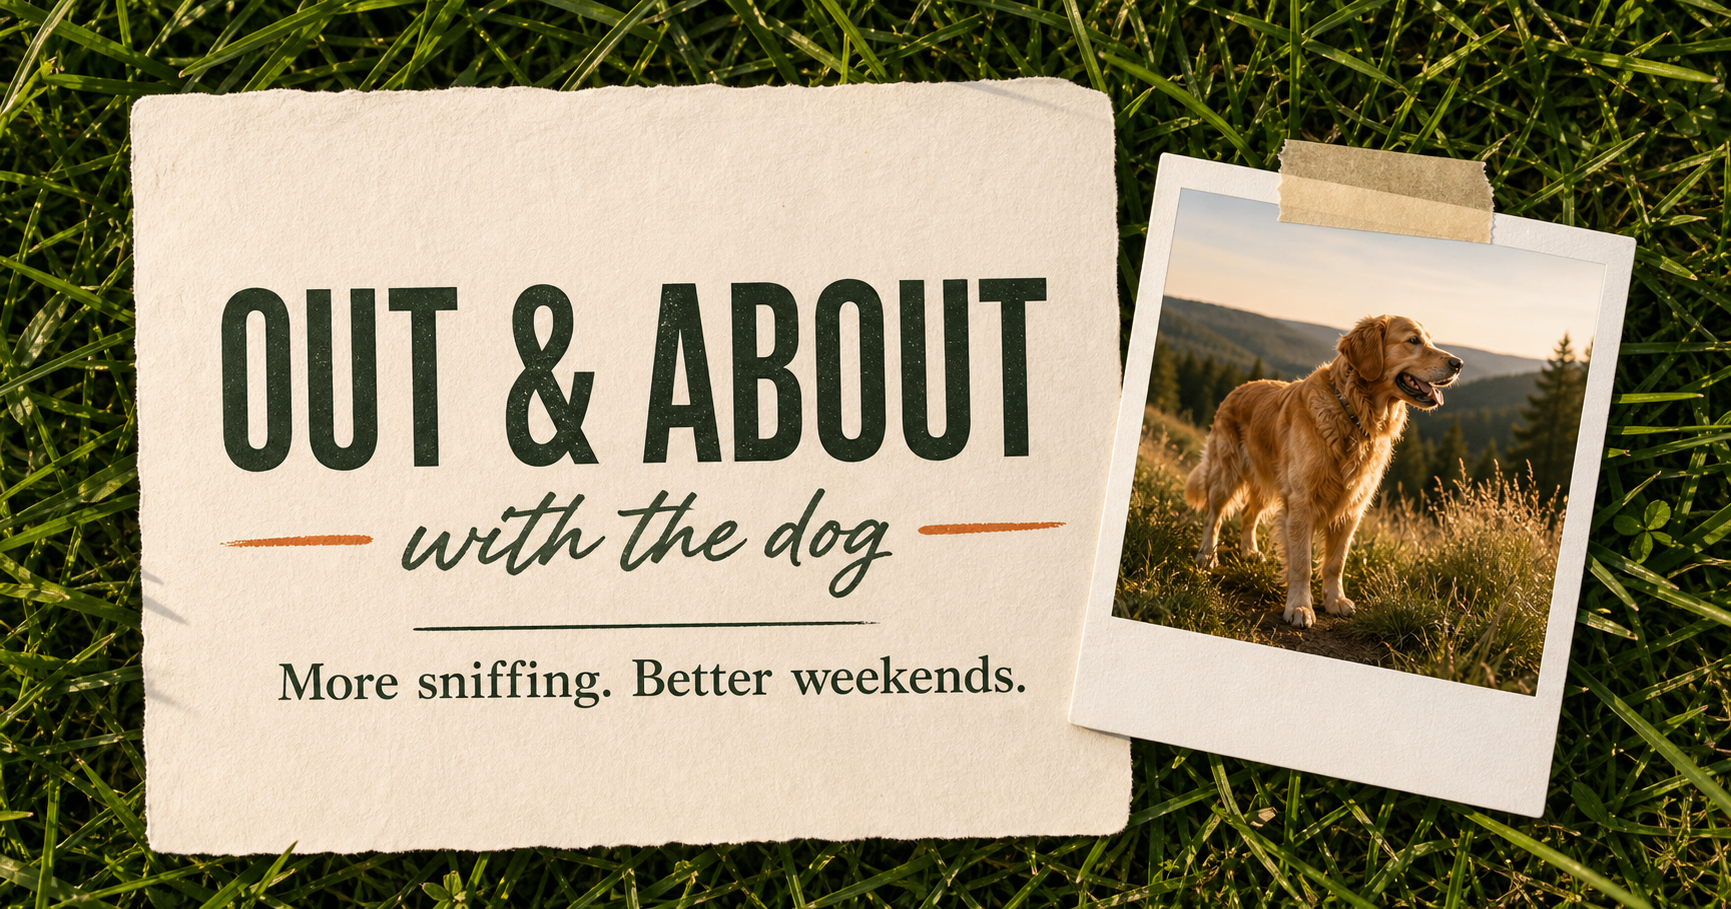
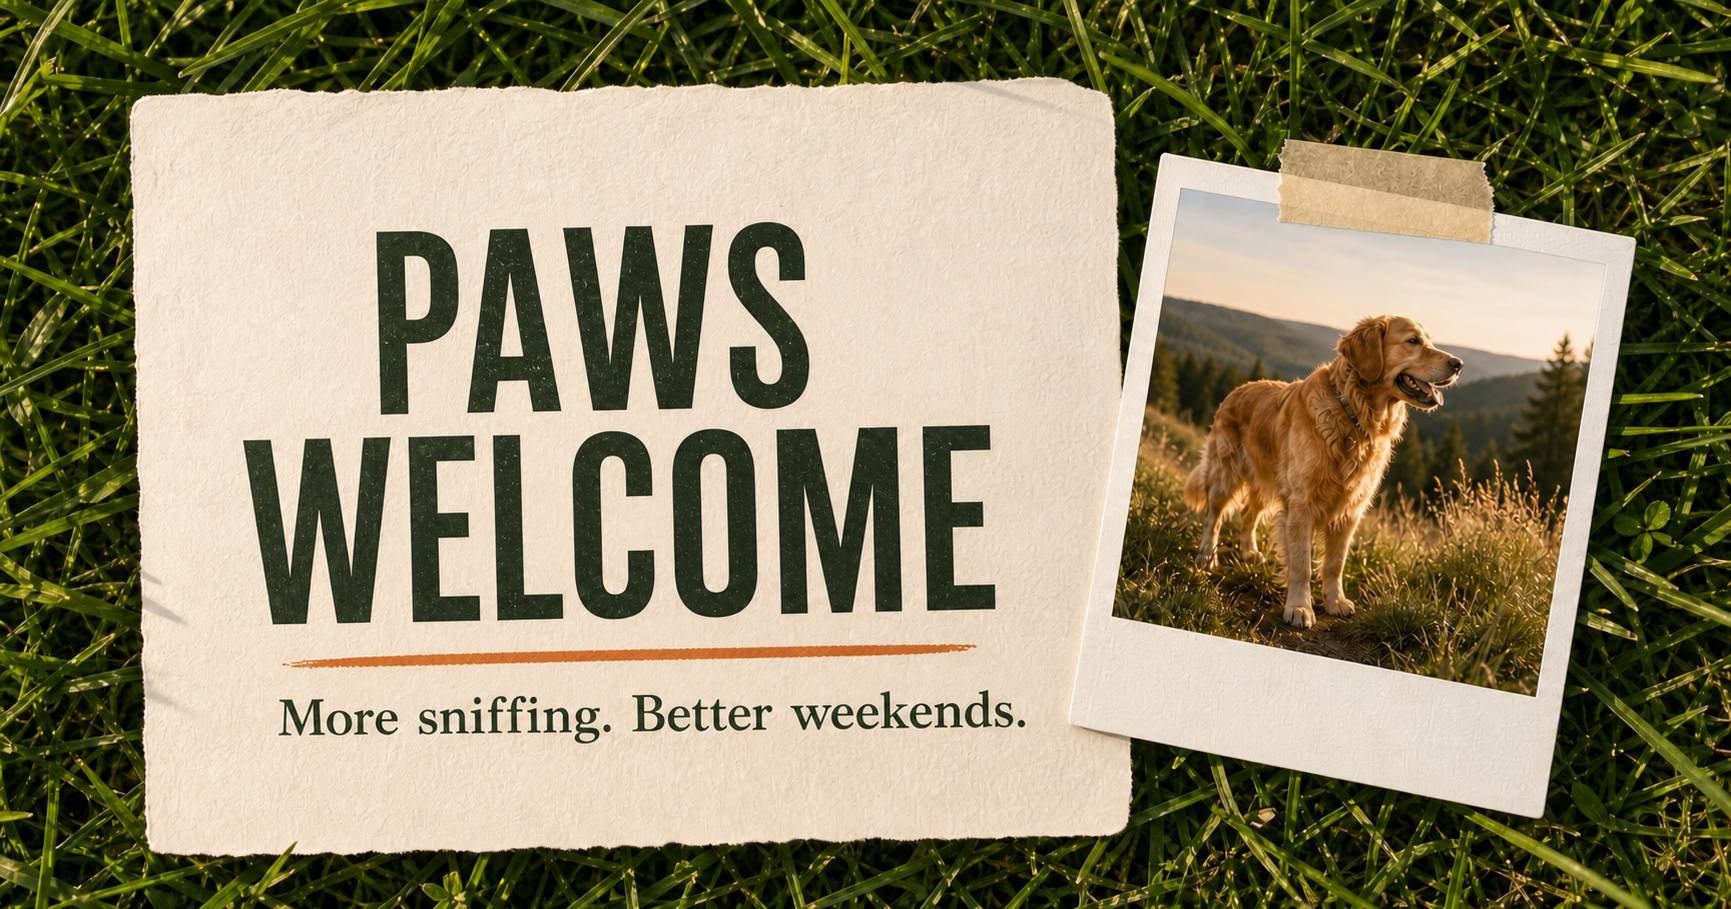
Rebrand site as Paws Welcome

diff --git a/app/layout.tsx b/app/layout.tsx
@@ -8,13 +8,13 @@ const serif = Fraunces({ variable: "--font-serif", subsets: ["latin"] });
 
 export const metadata: Metadata = {
   metadataBase: new URL(process.env.NEXT_PUBLIC_SITE_URL ?? "http://localhost:3000"),
-  title: { default: "Out & About", template: "%s | Out & About" },
+  title: { default: "Paws Welcome", template: "%s | Paws Welcome" },
   description: "Field notes for better days outside with your dog.",
   icons: { icon: "/favicon.svg", shortcut: "/favicon.svg" },
   openGraph: {
-    title: "Out & About — with the dog",
+    title: "Paws Welcome",
     description: "More sniffing. Better weekends.",
-    images: [{ url: "/og.png", width: 1732, height: 909, alt: "Out & About on a paper field note over grass" }],
+    images: [{ url: "/og.png", width: 1732, height: 909, alt: "Paws Welcome on a paper field note over grass" }],
   },
   twitter: { card: "summary_large_image", images: ["/og.png"] },
 };
@@ -24,9 +24,9 @@ export default function RootLayout({ children }: Readonly<{ children: React.Reac
     <html lang="en">
       <body className={`${sans.variable} ${serif.variable}`}>
         <header className="site-header page-shell">
-          <Link className="brand" href="/" aria-label="Out and About home">
-            <span className="brand-mark">O+A</span>
-            <span><strong>Out &amp; About</strong><small>with the dog</small></span>
+          <Link className="brand" href="/" aria-label="Paws Welcome home">
+            <span className="brand-mark">PW</span>
+            <span><strong>Paws Welcome</strong></span>
           </Link>
           <nav aria-label="Main navigation">
             <Link href="/">Field notes</Link>
@@ -37,11 +37,11 @@ export default function RootLayout({ children }: Readonly<{ children: React.Reac
         {children}
         <footer className="site-footer page-shell">
           <div className="brand footer-brand">
-            <span className="brand-mark">O+A</span>
-            <span><strong>Out &amp; About</strong><small>with the dog</small></span>
+            <span className="brand-mark">PW</span>
+            <span><strong>Paws Welcome</strong></span>
           </div>
           <p>Made for fresh air, loose plans, and dogs who stop to smell everything.</p>
-          <p className="copyright">© {new Date().getFullYear()} Out &amp; About</p>
+          <p className="copyright">© {new Date().getFullYear()} Paws Welcome</p>
         </footer>
       </body>
     </html>

diff --git a/app/about/page.tsx b/app/about/page.tsx
@@ -11,7 +11,7 @@ export default function AboutPage() {
         <div className="paper-card about-copy">
           <p className="eyebrow">About this notebook</p>
           <h1>Good days don’t need a complicated itinerary.</h1>
-          <p className="large-copy">Out &amp; About is a place for realistic dog adventures: a nearby trail, a quieter park, a rainy-day idea, or a better-packed bag.</p>
+          <p className="large-copy">Paws Welcome is a place for realistic dog adventures: a nearby trail, a quieter park, a rainy-day idea, or a better-packed bag.</p>
           <p>The advice here comes from paying attention, changing the plan when needed, and treating the dog’s experience as part of the destination.</p>
           <Link className="button button-dark" href="/">Browse the field notes</Link>
         </div>

diff --git a/README.md b/README.md
@@ -1,4 +1,4 @@
-# Out & About
+# Paws Welcome
 
 A public dog-activity blog with reusable post, category, and tag data. This repository is independent from the Nicole Olson board project and does not share its hosting, authentication, database, subscribers, credentials, or content.
 
